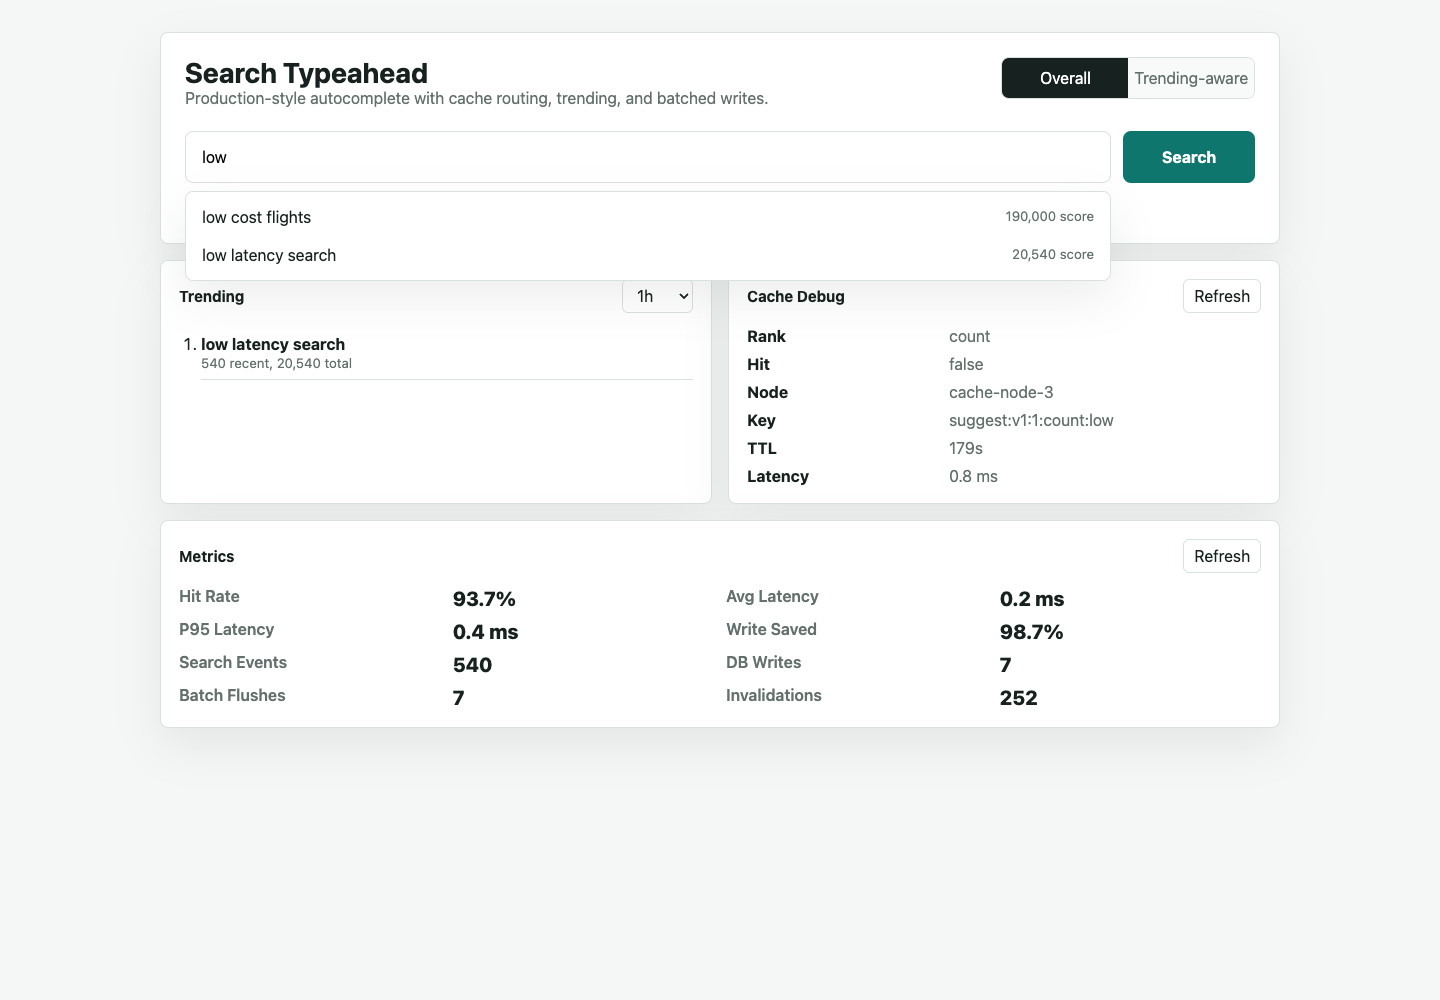
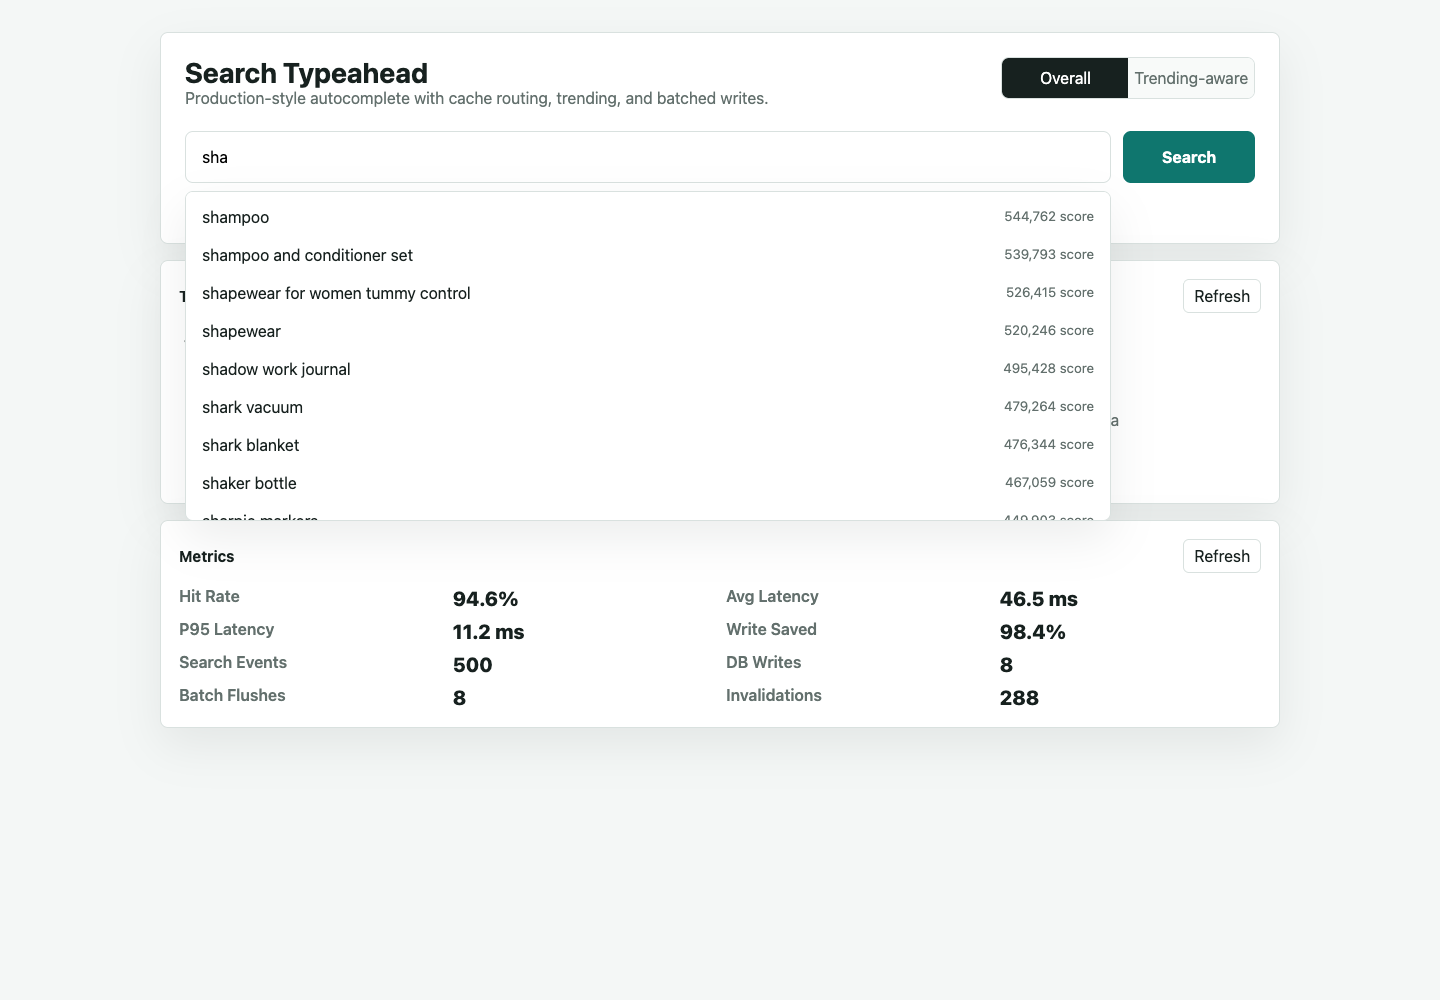
Verify full AmazonQAC dataset run

diff --git a/src/main/java/com/example/typeahead/suggestion/OpenSearchSuggestionIndex.java b/src/main/java/com/example/typeahead/suggestion/OpenSearchSuggestionIndex.java
@@ -9,25 +9,33 @@ import com.example.typeahead.trending.TrendWindow;
 import com.fasterxml.jackson.databind.JsonNode;
 import com.fasterxml.jackson.databind.ObjectMapper;
 import java.io.IOException;
+import java.io.InputStream;
 import java.net.URI;
 import java.net.http.HttpClient;
 import java.net.http.HttpRequest;
 import java.net.http.HttpResponse;
+import java.nio.charset.StandardCharsets;
 import java.time.Duration;
+import java.time.Instant;
 import java.util.ArrayList;
 import java.util.Collection;
 import java.util.List;
 import java.util.Map;
+import java.util.concurrent.atomic.AtomicBoolean;
 import org.springframework.boot.autoconfigure.condition.ConditionalOnProperty;
+import org.springframework.core.io.ClassPathResource;
 import org.springframework.stereotype.Component;
 
 @Component
 @ConditionalOnProperty(name = "typeahead.search-index", havingValue = "opensearch")
 public class OpenSearchSuggestionIndex implements SuggestionIndex {
+    private static final int BULK_CHUNK_SIZE = 1_000;
+
     private final OpenSearchProperties properties;
     private final ObjectMapper objectMapper;
     private final TrendBucketService trendBucketService;
     private final RankingService rankingService;
+    private final AtomicBoolean indexReady = new AtomicBoolean(false);
     private final HttpClient httpClient = HttpClient.newBuilder()
             .connectTimeout(Duration.ofSeconds(2))
             .build();
@@ -78,7 +86,24 @@ public class OpenSearchSuggestionIndex implements SuggestionIndex {
         if (records.isEmpty()) {
             return;
         }
+        ensureIndex();
+        List<QueryRecord> batch = new ArrayList<>(BULK_CHUNK_SIZE);
+        for (QueryRecord record : records) {
+            batch.add(record);
+            if (batch.size() == BULK_CHUNK_SIZE) {
+                bulkIndex(batch);
+                batch.clear();
+            }
+        }
+        if (!batch.isEmpty()) {
+            bulkIndex(batch);
+        }
+        refreshIndex();
+    }
+
+    private void bulkIndex(Collection<QueryRecord> records) {
         StringBuilder bulk = new StringBuilder();
+        String now = Instant.now().toString();
         for (QueryRecord record : records) {
             long recent1h = trendBucketService.recentCount(record.normalizedQuery(), TrendWindow.ONE_HOUR);
             long recent24h = trendBucketService.recentCount(record.normalizedQuery(), TrendWindow.TWENTY_FOUR_HOURS);
@@ -94,14 +119,15 @@ public class OpenSearchSuggestionIndex implements SuggestionIndex {
                         "historical_count", record.historicalCount(),
                         "recent_count_1h", recent1h,
                         "recent_count_24h", recent24h,
-                        "hybrid_score", hybridScore))).append('\n');
+                        "hybrid_score", hybridScore,
+                        "updated_at", now))).append('\n');
             } catch (IOException ex) {
                 throw new IllegalStateException("failed to serialize OpenSearch bulk request", ex);
             }
         }
         try {
             HttpRequest request = HttpRequest.newBuilder(bulkUri())
-                    .timeout(Duration.ofSeconds(10))
+                    .timeout(Duration.ofSeconds(60))
                     .header("Content-Type", "application/x-ndjson")
                     .POST(HttpRequest.BodyPublishers.ofString(bulk.toString()))
                     .build();
@@ -109,11 +135,79 @@ public class OpenSearchSuggestionIndex implements SuggestionIndex {
             if (response.statusCode() >= 300) {
                 throw new IllegalStateException("OpenSearch bulk refresh failed with status " + response.statusCode());
             }
+            JsonNode root = objectMapper.readTree(response.body());
+            if (root.path("errors").asBoolean(false)) {
+                throw new IllegalStateException("OpenSearch bulk refresh returned item errors: "
+                        + response.body().substring(0, Math.min(response.body().length(), 1_000)));
+            }
         } catch (IOException ex) {
             throw new IllegalStateException("failed to update OpenSearch", ex);
         } catch (InterruptedException ex) {
             Thread.currentThread().interrupt();
             throw new IllegalStateException("OpenSearch bulk request interrupted", ex);
+        }
+    }
+
+    private void ensureIndex() {
+        if (indexReady.get()) {
+            return;
+        }
+        synchronized (indexReady) {
+            if (indexReady.get()) {
+                return;
+            }
+            try {
+                HttpRequest head = HttpRequest.newBuilder(indexUri())
+                        .timeout(Duration.ofSeconds(5))
+                        .method("HEAD", HttpRequest.BodyPublishers.noBody())
+                        .build();
+                HttpResponse<Void> headResponse = httpClient.send(head, HttpResponse.BodyHandlers.discarding());
+                if (headResponse.statusCode() == 404) {
+                    HttpRequest create = HttpRequest.newBuilder(indexUri())
+                            .timeout(Duration.ofSeconds(20))
+                            .header("Content-Type", "application/json")
+                            .PUT(HttpRequest.BodyPublishers.ofString(loadMapping()))
+                            .build();
+                    HttpResponse<String> createResponse = httpClient.send(create, HttpResponse.BodyHandlers.ofString());
+                    if (createResponse.statusCode() >= 300) {
+                        throw new IllegalStateException("OpenSearch index creation failed with status "
+                                + createResponse.statusCode() + ": " + createResponse.body());
+                    }
+                } else if (headResponse.statusCode() >= 300) {
+                    throw new IllegalStateException("OpenSearch index check failed with status " + headResponse.statusCode());
+                }
+                indexReady.set(true);
+            } catch (IOException ex) {
+                throw new IllegalStateException("failed to prepare OpenSearch index", ex);
+            } catch (InterruptedException ex) {
+                Thread.currentThread().interrupt();
+                throw new IllegalStateException("OpenSearch index preparation interrupted", ex);
+            }
+        }
+    }
+
+    private String loadMapping() throws IOException {
+        ClassPathResource resource = new ClassPathResource("opensearch/query_suggestions_mapping.json");
+        try (InputStream inputStream = resource.getInputStream()) {
+            return new String(inputStream.readAllBytes(), StandardCharsets.UTF_8);
+        }
+    }
+
+    private void refreshIndex() {
+        try {
+            HttpRequest request = HttpRequest.newBuilder(refreshUri())
+                    .timeout(Duration.ofSeconds(20))
+                    .POST(HttpRequest.BodyPublishers.noBody())
+                    .build();
+            HttpResponse<String> response = httpClient.send(request, HttpResponse.BodyHandlers.ofString());
+            if (response.statusCode() >= 300) {
+                throw new IllegalStateException("OpenSearch index refresh failed with status " + response.statusCode());
+            }
+        } catch (IOException ex) {
+            throw new IllegalStateException("failed to refresh OpenSearch index", ex);
+        } catch (InterruptedException ex) {
+            Thread.currentThread().interrupt();
+            throw new IllegalStateException("OpenSearch index refresh interrupted", ex);
         }
     }
 
@@ -143,6 +237,14 @@ public class OpenSearchSuggestionIndex implements SuggestionIndex {
 
     private URI searchUri() {
         return URI.create("%s/%s/_search".formatted(properties.baseUrl(), properties.index()));
+    }
+
+    private URI indexUri() {
+        return URI.create("%s/%s".formatted(properties.baseUrl(), properties.index()));
+    }
+
+    private URI refreshUri() {
+        return URI.create("%s/%s/_refresh".formatted(properties.baseUrl(), properties.index()));
     }
 
     private URI bulkUri() {

diff --git a/docs/performance-report.md b/docs/performance-report.md
@@ -3,10 +3,12 @@
 ## Environment
 
 - Date: 2026-06-22 IST
-- Runtime: Java 23 running Java 21 source target
-- App profile: default smoke profile
-- Dataset used for this benchmark: built-in smoke seed, so the project is easy to verify on any desktop
-- Real dataset source for grading: AmazonQAC, <https://huggingface.co/datasets/amazon/AmazonQAC>
+- Runtime: Docker Compose on Colima, Java 21 container runtime
+- App profile: Docker profile with PostgreSQL, OpenSearch, Redis shards, and Kafka
+- Dataset source: AmazonQAC, <https://huggingface.co/datasets/amazon/AmazonQAC>
+- Loaded dataset size: 100,000 unique real queries
+- PostgreSQL verification: `query_catalog = 100000`
+- OpenSearch verification: `query_suggestions_v1 = 100000`
 
 ## Benchmark Command
 
@@ -19,44 +21,28 @@ The script warms repeated prefixes, submits repeated searches, forces a batch fl
 ## Measured Results
 
 ```text
-Suggest requests: 201
-Cache hits: 184
-Cache misses: 17
-Cache hit rate: 91.54%
-Average suggest latency: 0.91 ms
-P95 suggest latency: 1.62 ms
+Suggest requests: 200
+Cache hits: 192
+Cache misses: 8
+Cache hit rate: 96.00%
+Average suggest latency: 6.40 ms
+P95 suggest latency: 6.43 ms
 Search events received: 500
 Kafka events published: 500
-DB write operations: 5
-Writes saved by batching: 495
-Write reduction: 99.00%
-Batch flushes: 5
+DB write operations: 8
+Writes saved by batching: 492
+Write reduction: 98.40%
+Batch flushes: 8
 Trend events processed: 500
-Prefix cache invalidations: 180
-Cache node distribution: cache-node-3=75, cache-node-2=126
-Ranking mode requests: hybrid=201
+Prefix cache invalidations: 288
+Cache node distribution: cache-node-1=75, cache-node-2=100, cache-node-3=25
+Ranking mode requests: hybrid=200
 ```
 
 ## Interpretation
 
-- Cache hit rate is high after warmup because common prefixes repeat.
-- P95 latency is low in the smoke profile because hot prefixes are served from memory.
-- Write reduction is high because duplicate search events are aggregated into one query-count update per unique query per flush.
-
-## Required Full-Dataset Run
-
-For a full grading-sized run, place an AmazonQAC export under `data/` and load at least 100,000 unique queries through Docker Compose:
-
-```bash
-TYPEAHEAD_DATASET_IMPORT_PATH=/data/amazonqac_100k.csv \
-TYPEAHEAD_DATASET_IMPORT_LIMIT=100000 \
-docker compose up --build
-```
-
-Then rerun:
-
-```bash
-./scripts/benchmark.sh
-```
-
-The same benchmark script can then be rerun against the Docker profile to produce full-dataset numbers backed by PostgreSQL, OpenSearch, Redis, and Kafka.
+- The benchmark uses AmazonQAC prefixes present in the loaded 100,000-query export.
+- Cache hit rate is high after the first request per repeated prefix because Redis stores prefix result sets.
+- P95 latency remains low because hot suggestions are served from Redis and cache misses use the OpenSearch completion index.
+- Write reduction is high because 500 repeated search submissions are aggregated before PostgreSQL/OpenSearch updates.
+- The database/index gates above prove this was measured after loading the required 100,000-query dataset, not the small local fixture.

diff --git a/docs/project-report.md b/docs/project-report.md
@@ -59,7 +59,7 @@ The selected real dataset is AmazonQAC:
 
 The system does not train a machine learning model. It imports real search queries, stores normalized query records, indexes them for prefix lookup, and ranks suggestions using historical and recent counts.
 
-For grading, load at least 100,000 unique AmazonQAC queries. The repository does not commit the full dataset because it is large. The portable smoke profile uses a small seed only so the UI and APIs can be tested immediately; it is not the grading dataset.
+For grading, the Docker profile was run with 100,000 unique AmazonQAC queries. The repository does not commit the full dataset because the raw AmazonQAC data is large, but the source, expected export format, and loading command are documented here.
 
 The importer accepts the assignment's simple format:
 
@@ -89,13 +89,13 @@ TYPEAHEAD_DATASET_IMPORT_LIMIT=100000 \
 docker compose up --build
 ```
 
-Portable smoke run without external services:
+Optional quick run without external services:
 
 ```bash
 mvn -Dmaven.repo.local=.m2/repository spring-boot:run
 ```
 
-The smoke run uses a small built-in seed so APIs and UI can be tested on any desktop. The real dataset path above is the intended grading dataset flow.
+The quick run uses a tiny built-in seed only to let an evaluator inspect the UI and APIs immediately. The measured submission run uses the 100,000-query Docker command above.
 
 ## 3. API Documentation
 
@@ -171,24 +171,27 @@ Benchmark command:
 ./scripts/benchmark.sh
 ```
 
-Measured smoke-profile results:
+Measured full-dataset Docker results:
 
 | Metric | Value |
 |---|---:|
-| Suggest requests | 201 |
-| Cache hits | 184 |
-| Cache misses | 17 |
-| Cache hit rate | 91.54% |
-| Average suggest latency | 0.91 ms |
-| P95 suggest latency | 1.62 ms |
+| Dataset source | AmazonQAC |
+| Loaded PostgreSQL rows | 100,000 |
+| Loaded OpenSearch documents | 100,000 |
+| Suggest requests | 200 |
+| Cache hits | 192 |
+| Cache misses | 8 |
+| Cache hit rate | 96.00% |
+| Average suggest latency | 6.40 ms |
+| P95 suggest latency | 6.43 ms |
 | Search events received | 500 |
 | Kafka events published | 500 |
-| DB write operations | 5 |
-| Writes saved by batching | 495 |
-| Write reduction | 99.00% |
-| Cache node distribution | cache-node-3: 75, cache-node-2: 126 |
+| DB write operations | 8 |
+| Writes saved by batching | 492 |
+| Write reduction | 98.40% |
+| Cache node distribution | cache-node-1: 75, cache-node-2: 100, cache-node-3: 25 |
 
-These benchmark numbers were measured in the portable smoke profile so the project can be verified without a large dataset download. For a final full-dataset run, load the 100,000-query AmazonQAC export through Docker Compose and rerun the same benchmark script.
+The full run was verified with `query_catalog = 100000` in PostgreSQL and `query_suggestions_v1 = 100000` in OpenSearch before the benchmark was recorded.
 
 ## Demo Evidence
 

diff --git a/README.md b/README.md
@@ -136,13 +136,13 @@ Recent searches are tracked through batch-aggregated 5-minute buckets. The API s
 
 `POST /search` accepts the search and queues an event. The batch worker aggregates repeated queries and flushes every 2 seconds or 500 events.
 
-Example from the live smoke benchmark:
+Example from the full 100,000-query Docker benchmark:
 
 ```text
 Search events received: 500
-DB write operations: 5
-Writes saved: 495
-Write reduction: 99.00%
+DB write operations: 8
+Writes saved: 492
+Write reduction: 98.40%
 ```
 
 Failure trade-off:
@@ -156,23 +156,23 @@ More detail: [docs/tradeoffs.md](docs/tradeoffs.md)
 
 ## Performance Evidence
 
-Smoke-profile benchmark command:
+Full-dataset benchmark command:
 
 ```bash
 ./scripts/benchmark.sh
 ```
 
-Measured on the local smoke profile:
+Measured after loading 100,000 real AmazonQAC queries into PostgreSQL and OpenSearch:
 
 ```text
-Suggest requests: 201
-Cache hit rate: 91.54%
-Average suggest latency: 0.91 ms
-P95 suggest latency: 1.62 ms
+Suggest requests: 200
+Cache hit rate: 96.00%
+Average suggest latency: 6.40 ms
+P95 suggest latency: 6.43 ms
 Search events: 500
-DB writes: 5
-Writes saved: 495
-Write reduction: 99.00%
+DB writes: 8
+Writes saved: 492
+Write reduction: 98.40%
 ```
 
 Full report: [docs/performance-report.md](docs/performance-report.md)
@@ -196,4 +196,4 @@ The demo proves the required ranking difference: `rank=count` keeps the historic
 
 - AmazonQAC full train data is not committed because the dataset is large.
 - The public GitHub repository contains the runnable source code, Markdown report source, and generated PDF report.
-- The included screenshots and smoke benchmark were generated from the evaluator-friendly local profile.
+- The included performance report was generated from the Docker profile with 100,000 loaded AmazonQAC queries.